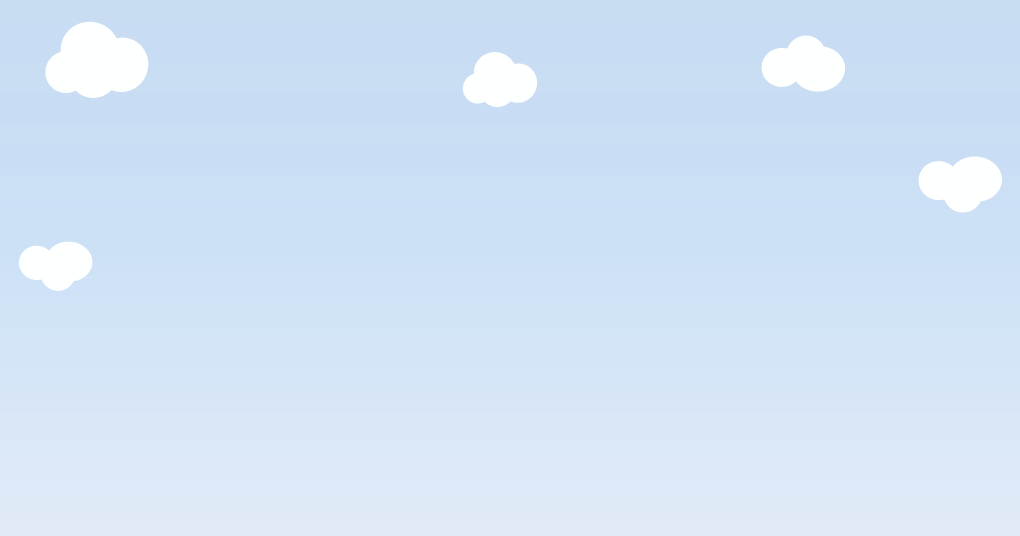
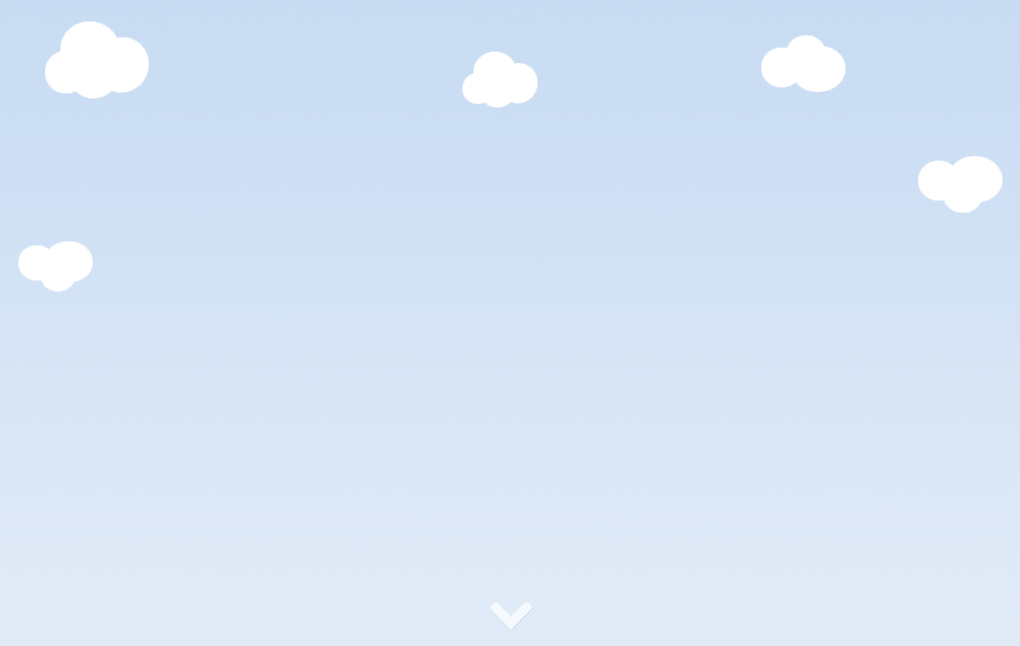
update landing page layout wip

diff --git a/client/views/application/landing.html b/client/views/application/landing.html
@@ -25,12 +25,14 @@
   <div class="row landing-bottom">
     <div class="col-md-4">
       <div class="text">
-        <h2>Save / Find / View</h2>
         <ul>
-          <li class="list"><i></i>Saved search</li>
-          <li class="add"><i></i>Fast insert c'est cool</li>
-          <li class="search"><i></i>Search by tag(s) or title</li>
+          <li class="add"><h2><i></i>Bookmark in click</h2></li>
         </ul>
+        <p>
+        Find something interesting simply add it (chrome and firefox extensions).
+        Then you can add tags and groups.
+        Georges takes it from here
+        </p>
       </div>
     </div>
     <div class="col-md-8">
@@ -38,5 +40,43 @@
     </div>
   </div>
 </div>
+
+  <div class="container">
+    <div class="row landing-bottom">
+      <div class="col-md-4">
+        <div class="text">
+          <h2>Save / Find / View</h2>
+          <ul>
+            <li class="list"><i></i>Saved search</li>
+            <li class="add"><i></i>Fast insert c'est cool</li>
+            <li class="search"><i></i>Search by tag(s) or title</li>
+          </ul>
+        </div>
+      </div>
+      <div class="col-md-8">
+        <img src='/images/landing-computer.png' width="543px" height="281px">
+      </div>
+    </div>
+  </div>
+
+
+  <div class="container">
+    <div class="row landing-bottom">
+      <div class="col-md-4">
+        <div class="text">
+          <h2>Save / Find / View</h2>
+          <ul>
+            <li class="list"><i></i>Saved search</li>
+            <li class="add"><i></i>Fast insert c'est cool</li>
+            <li class="search"><i></i>Search by tag(s) or title</li>
+          </ul>
+        </div>
+      </div>
+      <div class="col-md-8">
+        <img src='/images/landing-computer.png' width="543px" height="281px">
+      </div>
+    </div>
+  </div>
+
 
 </template>

diff --git a/client/stylesheets/georges.less b/client/stylesheets/georges.less
@@ -922,7 +922,7 @@ div.view {
 /* landing page */
 .landing-background-top {
   background: url('/images/landing-background-top.png') repeat-x center center;
-  height: 536px;
+  height: 646px;
   position: relative;
   top: -8px;
   @media (max-width: 599px) {
@@ -980,6 +980,10 @@ div.view {
         font-size: 20px;
         color: black;
         margin-bottom: 30px;
+      }
+
+      p {
+        color :red;
       }
 
       .register {
